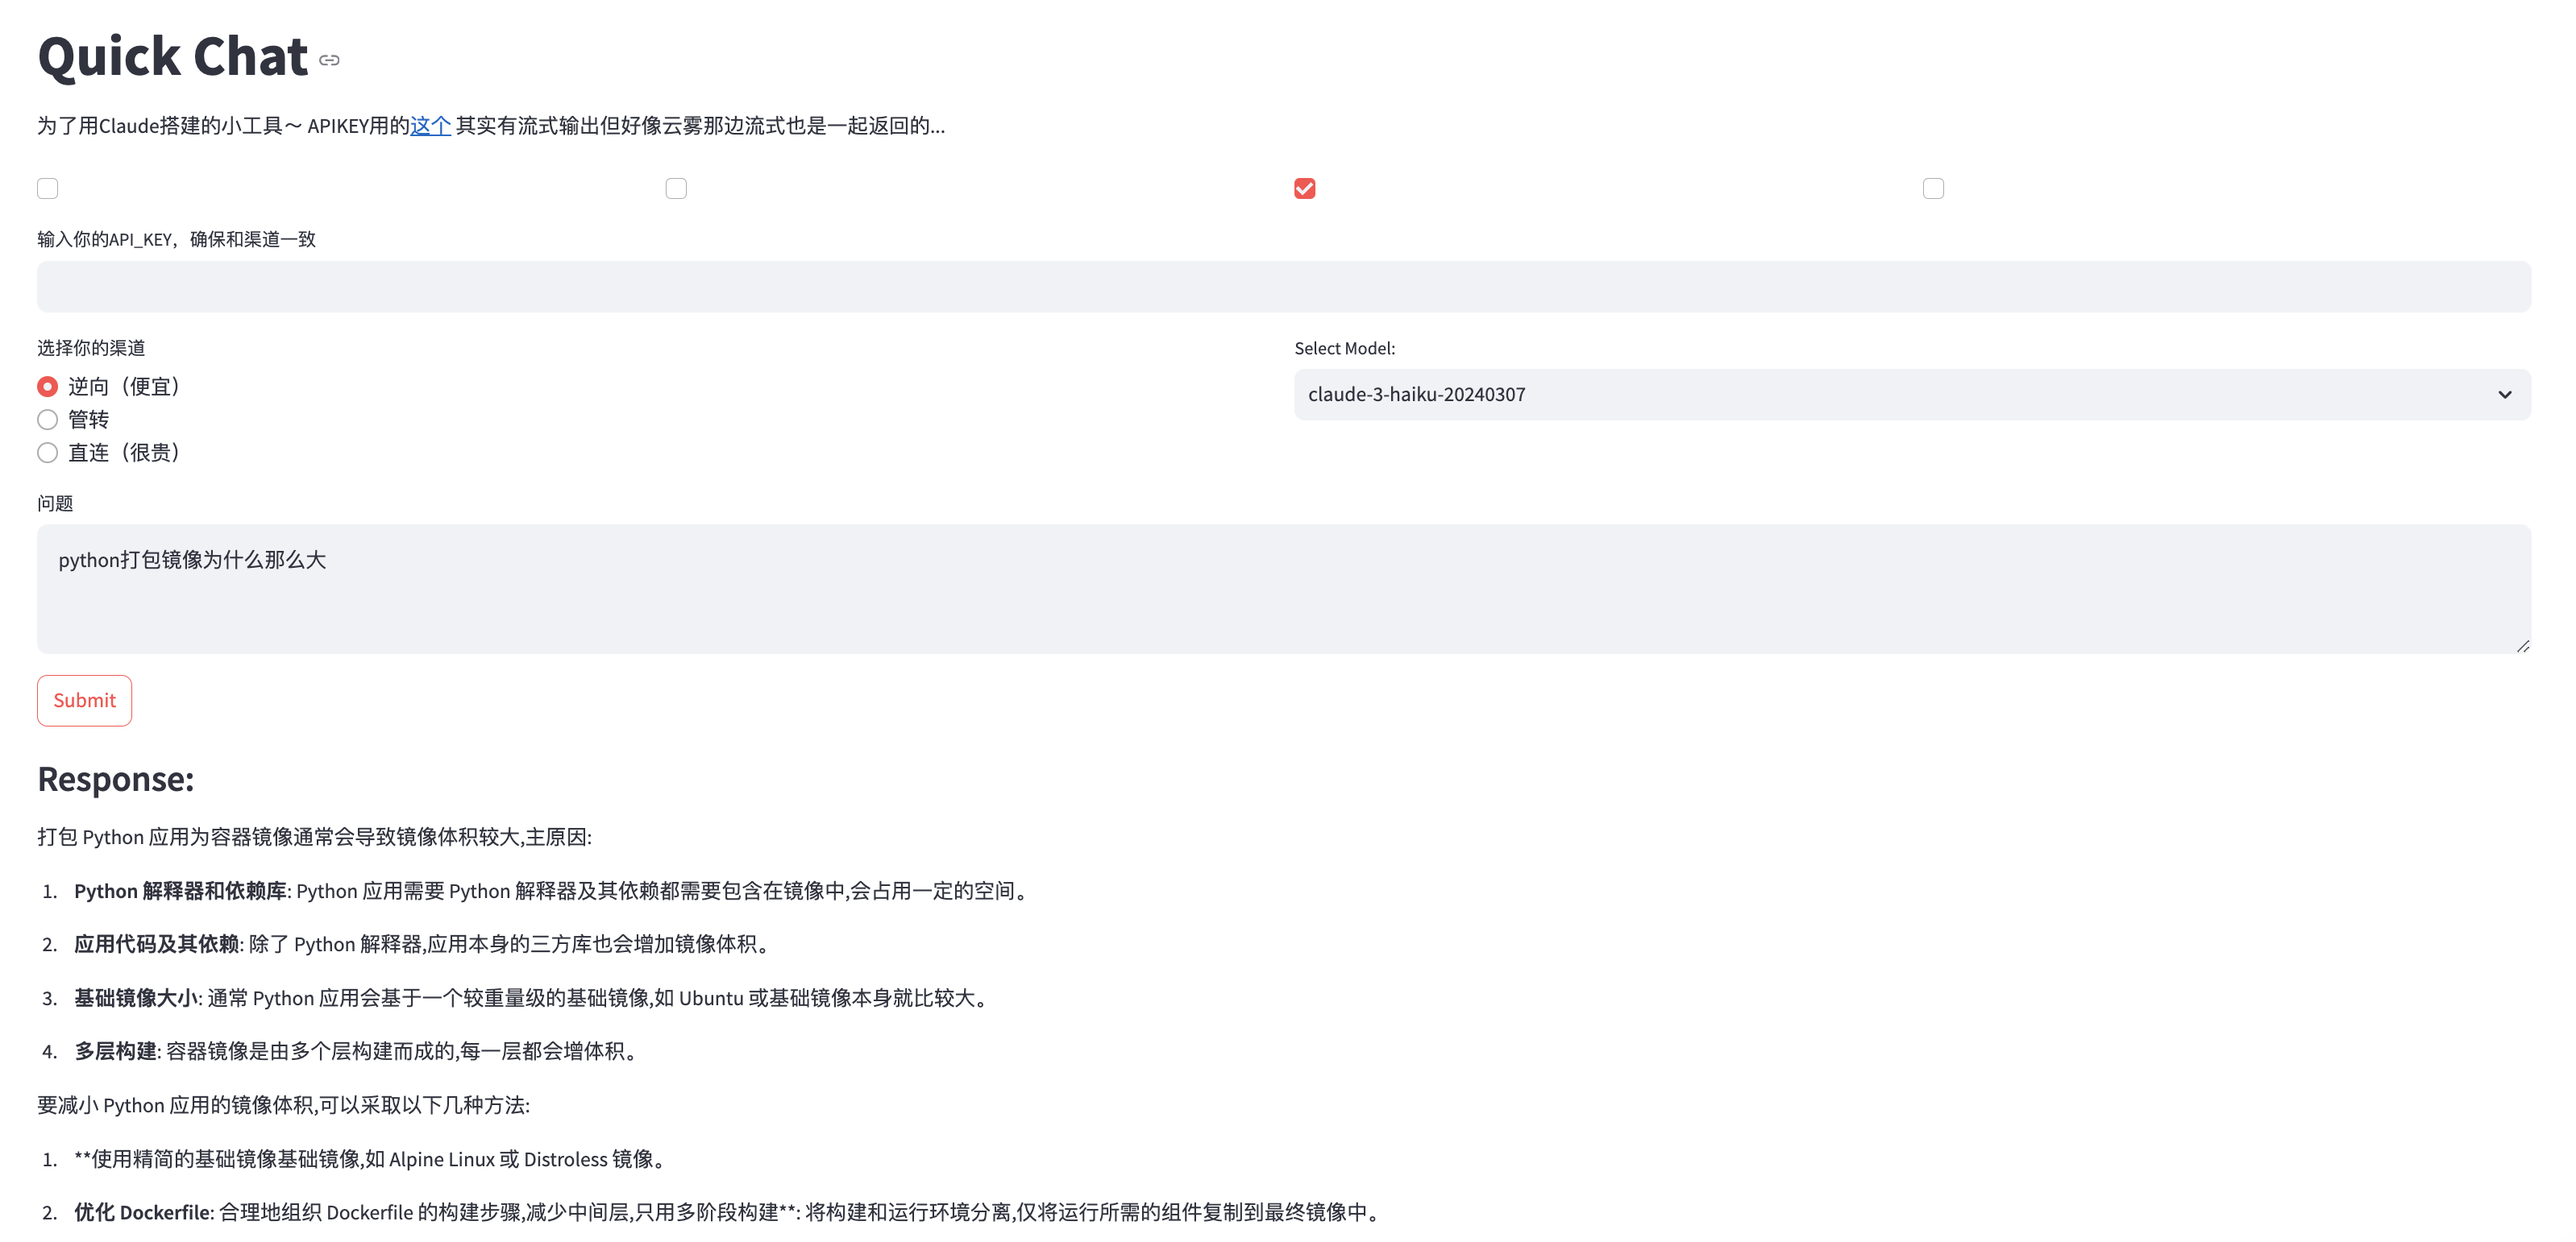
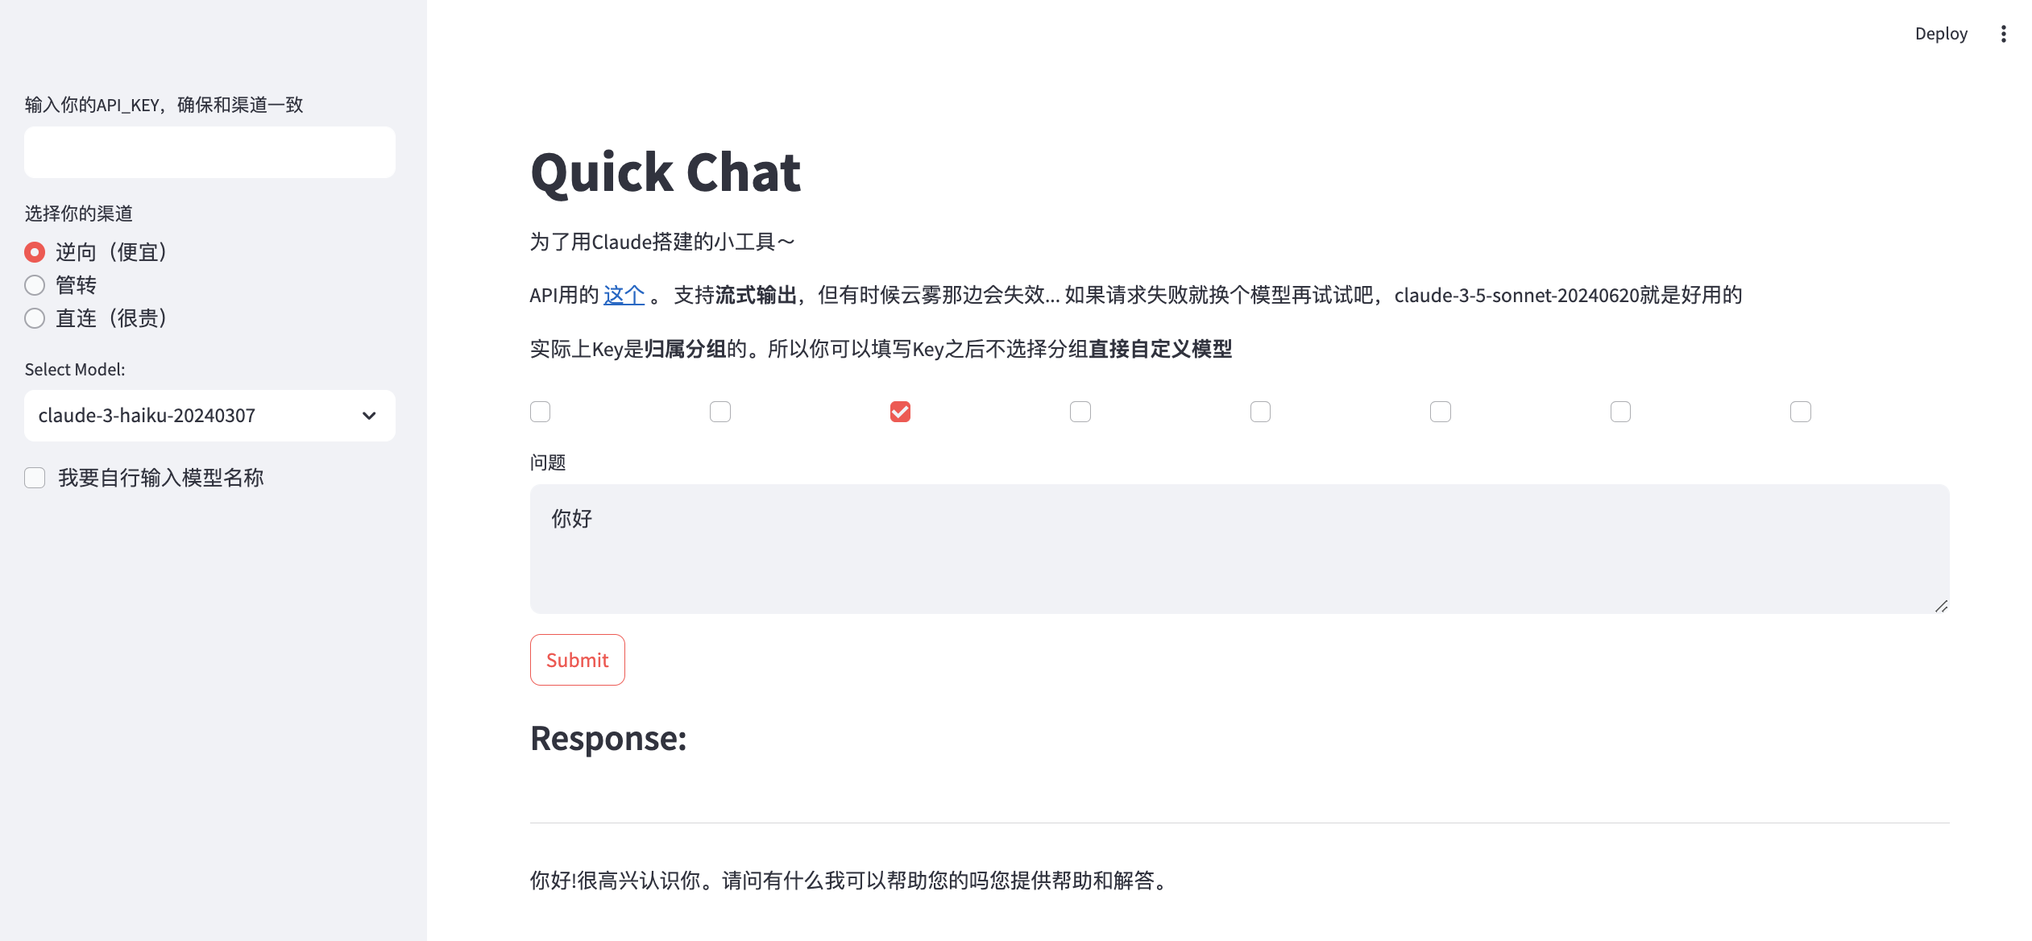
修复bug，增加异常报错、增加模型、优化界面

diff --git a/ui.py b/ui.py
@@ -1,13 +1,35 @@
 import streamlit as st
 import completions
 
+model_options = {
+    "逆向（便宜）": ["claude-3-5-sonnet-latest", "claude-3-haiku-20240307", "claude-3-5-sonnet-20240620",
+                   "claude-3-5-sonnet-20241022", "chatgpt-4o-latest", "gpt-4o-mini"],
+    "管转": ["claude-3-5-sonnet-latest", "claude-3-5-haiku-20241022"],
+    "直连（很贵）": ["claude-3-5-sonnet-latest", "claude-3-5-haiku-20241022", "claude-3-haiku-20240307"]
+}
+
 # Streamlit UI
 st.set_page_config(layout="wide")
 
 st.title("Quick Chat")
-st.markdown("为了用Claude搭建的小工具～  APIKEY用的[这个](https://yunwu.ai/register?aff=ZDXj) 其实有流式输出但好像云雾那边流式也是一起返回的...")
+st.markdown("为了用Claude搭建的小工具～")
+st.markdown(
+    "API用的 [这个](https://yunwu.ai/register?aff=ZDXj) 。 支持**流式输出**，但有时候云雾那边会失效... 如果请求失败就换个模型再试试吧，claude-3-5-sonnet-20240620就是好用的")
+st.markdown("实际上Key是**归属分组**的。所以你可以填写Key之后不选择分组**直接自定义模型**")
 
-col1, col2, col3, col4 = st.columns([1, 1, 1, 1])
+# 输入区
+st.session_state.api_key = st.sidebar.text_input("输入你的API_KEY，确保和渠道一致")
+
+channel = st.sidebar.radio("选择你的渠道", ["逆向（便宜）", "管转", "直连（很贵）"])
+
+model = st.sidebar.selectbox("Select Model:", model_options[channel])
+
+st.session_state.model = model
+
+if st.sidebar.checkbox("我要自行输入模型名称", value=False):
+    st.session_state.model = st.sidebar.text_input("确保输入有效、符合渠道的模型名")
+
+col1, col2, col3, col4, col5, col6, col7, col8 = st.columns([1, 1, 1, 1, 1, 1, 1, 1])
 with col1:
     b1 = st.checkbox("1", value=False, label_visibility="hidden")
 with col2:
@@ -16,42 +38,36 @@ with col3:
     b3 = st.checkbox("3", value=False, label_visibility="hidden")
 with col4:
     b4 = st.checkbox("4", value=False, label_visibility="hidden")
-
-# 输入区
-api_key = st.text_input("输入你的API_KEY，确保和渠道一致")
-
-col1, col2 = st.columns([1, 1])
-with col1:
-    channel = st.radio("选择你的渠道", ["逆向（便宜）", "管转", "直连（很贵）"])
-
-with col2:
-    model_options = {
-        "逆向（便宜）": ["claude-3-5-sonnet-latest", "claude-3-haiku-20240307", "chatgpt-4o-latest", "gpt-4o-mini"],
-        "管转": ["claude-3-5-sonnet-latest", "claude-3-5-haiku-20241022"],
-        "直连（很贵）": ["claude-3-5-sonnet-latest", "claude-3-5-haiku-20241022", "claude-3-haiku-20240307"]
-    }
-    model = st.selectbox("Select Model:", model_options[channel])
+with col5:
+    b5 = st.checkbox("5", value=False, label_visibility="hidden")
+with col6:
+    b6 = st.checkbox("6", value=False, label_visibility="hidden")
+with col7:
+    b7 = st.checkbox("7", value=False, label_visibility="hidden")
+with col8:
+    b8 = st.checkbox("8", value=False, label_visibility="hidden")
 
 question = st.text_area("问题")
 
 # 开始按钮
 if st.button("Submit"):
 
-    if b3 and not b2 and not b4 and not b1 and not api_key:
+    if b3 and not b2 and not b4 and not b1 and not st.session_state.api_key:
         if channel == "逆向（便宜）":
-            api_key = '你可以在这里偷偷写上你的KEY，自己用的时候偷个懒，通过勾选3号框不用每次填写'
+            # 你可以在这里偷偷写上你的KEY，自己用的时候偷个懒，通过勾选3号框不用每次填写，直连贵10倍所以不提供默认的了
+            st.session_state.api_key = 'your-key'
         elif channel == "管转":
-            api_key = '你可以在这里偷偷写上你的KEY，自己用的时候偷个懒，通过勾选3号框不用每次填写'
+            st.session_state.api_key = 'your-key'
 
-    if not api_key:
+    if not st.session_state.api_key:
         st.error("Please enter your API key.")
     elif not question:
         st.error("Please enter a question.")
     else:
-        st.markdown("### Response:")
+        st.markdown("### Response:\n ----")
         response_area = st.empty()  # 保留动态更新的区域
 
         response_text = ""
-        for chunk in completions.stream_response(question, api_key, model):
+        for chunk in completions.stream_response(question, st.session_state.api_key, st.session_state.model):
             response_text += chunk
-            response_area.markdown(response_text)
+            response_area.write(response_text)

diff --git a/completions.py b/completions.py
@@ -22,6 +22,11 @@ def stream_response(question, key, model):
 
     response = requests.request("POST", url, headers=headers, data=json.dumps(payload),stream=True)
 
+    if response.status_code != 200:
+        print(f"请求失败，状态码: {response.status_code}")
+        yield str(response.status_code)
+        yield response.text
+        return
     for chunk in response.iter_lines():
         # 解码为字符串，明确指定 UTF-8
         chunk_str = chunk.decode('utf-8', errors='replace')  # 将无法解码的字符替换为特殊字符
@@ -33,6 +38,7 @@ def stream_response(question, key, model):
             try:
                 data = json.loads(chunk_str)
                 if data['choices'][0].get('delta') and data['choices'][0]['delta'].get('content'):
+                    print(data['choices'][0]['delta']['content'])
                     yield data['choices'][0]['delta']['content']
             except json.JSONDecodeError:
                 continue
